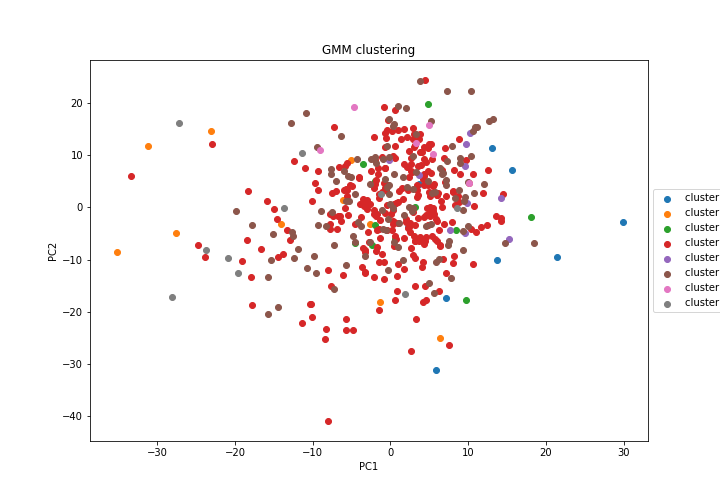
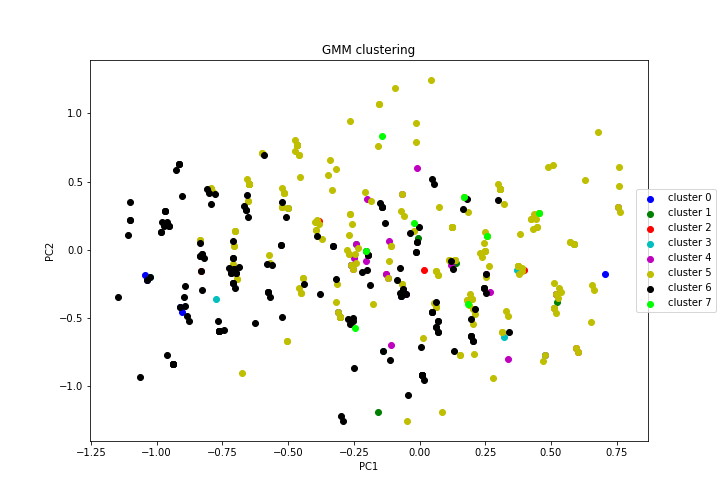
update

diff --git a/clustering-GMM.py b/clustering-GMM.py
@@ -75,6 +75,7 @@ from toolbox_02450 import clusterplot
 covar_type = 'full'       # you can try out 'diag' as well
 reps = 3                  # number of fits with different initalizations, best result will be kept
 init_procedure = 'kmeans' # 'kmeans' or 'random'
+colors = ['b','g','r','c','m','y','k','lime']
 gmm = GaussianMixture(n_components=8, covariance_type=covar_type, 
                               n_init=reps, init_params=init_procedure,
                               tol=1e-6, reg_covar=1e-6).fit(X)
@@ -82,7 +83,7 @@ clustering = gmm.predict(X)
 a = clustering.reshape(clustering.shape[0],1)
 plt.figure(1,figsize=(10,7))
 for i in range(8):
-    plt.scatter(Z[clustering == i][:,0],Z[clustering == i][:,1],label="cluster " + str(i))
+    plt.scatter(Z[clustering == i][:,0],Z[clustering == i][:,1],color=colors[i],label="cluster " + str(i))
     
 legend(loc='center left', bbox_to_anchor=(0.97, 0.5)) #cuts of legend if totally out of plot
 plt.title("GMM clustering")
@@ -92,14 +93,14 @@ plt.savefig("GMM-cluster-plot.png")
 plt.tight_layout()
 plt.show()    
     
-colors = ['b','g','r','c','m','y','k','w']
+
 plt.figure(2,figsize=(10,5))
 plt.xlabel("PC1")
 plt.ylabel("PC2")
 plt.title("GMM plot with cluster centers")
 for i in range(8):
-    plt.scatter(Z[clustering == i][:,0],Z[clustering == i][:,1],zorder=1)
-    plt.scatter(gmm.means_[i,0],gmm.means_[i,1], s=150, facecolors=colors[i], edgecolors='k',label = "Cluster center "+str(i),zorder=2)
+    plt.scatter(Z[clustering == i][:,0],Z[clustering == i][:,1],color=colors[i])
+    plt.scatter(gmm.means_[i,0],gmm.means_[i,1], s=200, facecolors=colors[i], edgecolors='k',label = "Cluster center "+str(i),zorder=2)
     
 for i in range(8):
     pass
@@ -114,9 +115,6 @@ def threedplot():
         #ax.scatter(z0[:,0], z0[:,1], z0[:,2], c='g', label = "chd=0")
         #ax.scatter(z1[:,0], z1[:,1], z1[:,2], c='r', label = "chd=1")
         ax.scatter(Z[clustering == i][:,0],Z[clustering == i][:,1],Z[clustering == i][:,2], label="cluster " + str(i))
-    
-    
-    
     plt.legend()
     plt.xlabel('PCA1')
     plt.ylabel('PCA2')

diff --git a/clusteringhierarchical.py b/clusteringhierarchical.py
@@ -1,4 +1,4 @@
-from dataextraction import X, X_standard, attributeNames 
+from dataextraction import X_standard, attributeNames 
 import numpy as np
 import matplotlib.pyplot as plt
 from pcavariance import (N, M, Y, U, S, V)
@@ -86,13 +86,14 @@ plt.ylabel("PC2")
 plt.title("Hierarchical clustering")
 
 # Display dendrogram
-max_display_levels=6
+max_display_levels=4
 plt.figure(2,figsize=(11,4))
 dendrogram(link, truncate_mode='level', p=max_display_levels)
 
 plt.show()
 
-#%% testing all posibilites 
+#%% testing all posibilites
+highscores=[] 
 def testAll():
     Maxclust = 2
     methods = ["single","average","weighted","centroid","median","ward"]
@@ -126,17 +127,20 @@ def testAll():
                         falsepos += 1
                     else:
                         print("something weird", index, item)
-                print("Method:",Method)
+                print("Method:",method)
                 print("truepos:", truepos)
                 print("trueneg:", trueneg)
                 print("falsepos:", falsepos)
                 print("falseneg:", falseneg)
+                percentright = (truepos + trueneg)/len(a) * 100
+                if percentright > 65:
+                    highscores.append((method,metric,percentright))
                 print("Percent right:", (truepos + trueneg)/len(a) * 100)
                 print("\n--------------------------------------------")
             except:
                 pass
 
-# testAll()
+#testAll()
 
 #%% new y is famhist to see if we can improve result
 # X = X_standard

diff --git a/association-mining.py b/association-mining.py
@@ -1,1 +1,38 @@
 # association mining 
+
+from dataextraction import X, attributeNames
+from similarity import binarize2
+from apyori import apriori
+import numpy as np
+Xbin, attributeNamesBin = binarize2(X, attributeNames)
+
+# from course scripts
+def mat2transactions(X, labels=[]):
+    T = []
+    for i in range(X.shape[0]):
+        l = np.nonzero(X[i, :])[0].tolist()
+        if labels:
+            l = [labels[i] for i in l]
+        T.append(l)
+    return T
+
+
+# This function print the found rules and also returns a list of rules in the format:
+# [(x,y), ...]
+# where x -> y
+def print_apriori_rules(rules):
+    frules = []
+    for r in rules:
+        for o in r.ordered_statistics:        
+            conf = o.confidence
+            supp = r.support
+            x = ", ".join( list( o.items_base ) )
+            y = ", ".join( list( o.items_add ) )
+            print("{%s} -> {%s}  (supp: %.3f, conf: %.3f)"%(x,y, supp, conf))
+            frules.append( (x,y) )
+    return frules
+
+
+T = mat2transactions(Xbin,labels=attributeNamesBin)
+rules = apriori(T, min_support=0.3, min_confidence=.85)
+print_apriori_rules(rules)
